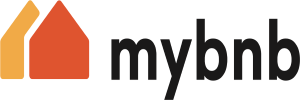
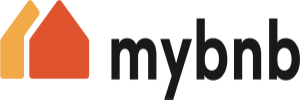
test size

diff --git a/index.html b/index.html
@@ -152,9 +152,9 @@
                 </div>
                 <!-- End .project -->
 
-                <div id="project-mybnb" class="project shadow-large">
+                <div class="project shadow-large">
                     <div class="project-image">
-                        <img src="images/mybnb.PNG" height="100"/>
+                        <img src="images/mybnb.PNG"/>
                     </div>
                     <!-- End .project-image -->
                     <div class="project-info">

diff --git a/scss/styles.scss b/scss/styles.scss
@@ -655,7 +655,8 @@ footer {
 }
 
 .project-mybnb {
-    height: 300;
+    display:block;
+    height: 300px;
 }
 
 .project-info {
